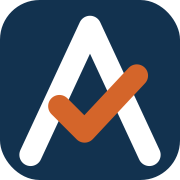
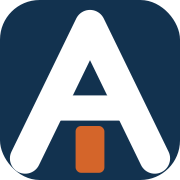
Wordmark: the A-frame house stands in for the A
Claude-Session: https://claude.ai/code/session_019bFuonzXkrbG6Adz1o8heX

Changed region(s): [[0.0556, 0.0556, 0.9444, 0.9722], [0.6944, 0.7222, 0.7222, 0.7778], [0.2778, 0.7222, 0.3056, 0.7778]]

diff --git a/site/public/index.html b/site/public/index.html
@@ -38,7 +38,7 @@
 
 <header class="top">
   <div class="topin">
-    <a href="/" aria-label="Apprifi home"><img class="logo" src="/apprifi-logo.svg" alt="Apprifi" width="168" height="40"></a>
+    <a href="/" aria-label="Apprifi home"><img class="logo" src="/apprifi-logo.svg" alt="Apprifi" width="121" height="40"></a>
     <nav aria-label="Site">
       <a href="#how">How it works</a>
       <a href="#amc">Not an AMC</a>
@@ -302,7 +302,7 @@
 <footer>
   <div class="wrap">
     <div class="cols">
-      <div><img src="/apprifi-logo.svg" alt="Apprifi" width="134" height="32" style="height:32px;width:auto"><p style="margin-top:12px;max-width:40ch;line-height:1.6">The appraisal desk for community lenders, estate attorneys and wealth managers. Built and operated by Cresci Appraisal &amp; Consulting Company, Bloomington-Normal, Illinois.</p></div>
+      <div><img src="/apprifi-logo.svg" alt="Apprifi" width="97" height="32" style="height:32px;width:auto"><p style="margin-top:12px;max-width:40ch;line-height:1.6">The appraisal desk for community lenders, estate attorneys and wealth managers. Built and operated by Cresci Appraisal &amp; Consulting Company, Bloomington-Normal, Illinois.</p></div>
       <div><h4>Product</h4><a href="#how">How it works</a><a href="#amc">Not an AMC</a><a href="#estate">Estate and wealth</a><a href="#pricing">Pricing</a><a href="https://demo.apprifi.com" rel="noopener">Live demo</a></div>
       <div><h4>Access</h4><a href="/sign-in">Sign in</a><a href="#request">Request a walkthrough</a><a href="/security">Security and privacy</a><a href="mailto:orders@apprifi.com">orders@apprifi.com</a></div>
     </div>

diff --git a/public/app.js b/public/app.js
@@ -641,7 +641,7 @@ var CORE = (function(){
     /* the lockup: Apprifi, then the lender as the client (its own logo if it uploaded one, otherwise its name) */
     var wrap=document.querySelector(".topin"), lock=wrap.querySelector(".brandlock");
     if(!lock){ lock=document.createElement("a"); lock.className="brandlock"; lock.href="./"; wrap.insertBefore(lock,wrap.firstChild); }
-    lock.innerHTML='<img class="plogo" src="/apprifi-logo.svg" alt="'+esc(b.productName||"Apprifi")+'" width="168" height="40">'+
+    lock.innerHTML='<img class="plogo" src="/apprifi-logo.svg" alt="'+esc(b.productName||"Apprifi")+'" width="121" height="40">'+
       '<span class="lsep" aria-hidden="true"></span>'+
       (b.logo?'<img class="llogo" src="'+esc(b.logo)+'" alt="'+esc(b.name)+'">':'<span class="lname"><b>'+esc(b.name)+'</b>'+(b.tagline?'<span>'+esc(b.tagline)+'</span>':'')+'</span>');
     var h1=document.querySelector(".mast h1"), tag=document.querySelector(".mast .tag");

diff --git a/src/app.src.js b/src/app.src.js
@@ -97,7 +97,7 @@
     /* the lockup: Apprifi, then the lender as the client (its own logo if it uploaded one, otherwise its name) */
     var wrap=document.querySelector(".topin"), lock=wrap.querySelector(".brandlock");
     if(!lock){ lock=document.createElement("a"); lock.className="brandlock"; lock.href="./"; wrap.insertBefore(lock,wrap.firstChild); }
-    lock.innerHTML='<img class="plogo" src="/apprifi-logo.svg" alt="'+esc(b.productName||"Apprifi")+'" width="168" height="40">'+
+    lock.innerHTML='<img class="plogo" src="/apprifi-logo.svg" alt="'+esc(b.productName||"Apprifi")+'" width="121" height="40">'+
       '<span class="lsep" aria-hidden="true"></span>'+
       (b.logo?'<img class="llogo" src="'+esc(b.logo)+'" alt="'+esc(b.name)+'">':'<span class="lname"><b>'+esc(b.name)+'</b>'+(b.tagline?'<span>'+esc(b.tagline)+'</span>':'')+'</span>');
     var h1=document.querySelector(".mast h1"), tag=document.querySelector(".mast .tag");

diff --git a/site/public/404.html b/site/public/404.html
@@ -10,7 +10,7 @@
 <body>
 <main class="narrow">
   <div class="panel">
-    <a href="/"><img src="/apprifi-logo.svg" alt="Apprifi" width="168" height="40" style="height:40px;width:auto"></a>
+    <a href="/"><img src="/apprifi-logo.svg" alt="Apprifi" width="121" height="40" style="height:40px;width:auto"></a>
     <h1 style="margin-top:18px">That page is not here.</h1>
     <p>If you followed a link from a text or email about your appraisal, the link belongs on your lender's portal, not on apprifi.com. Open the message again and tap the link it contains.</p>
     <p style="margin-top:14px"><a class="btn p" href="/">Go to the home page</a> <a class="btn" href="/sign-in" style="margin-left:8px">Sign in</a></p>

diff --git a/site/public/security.html b/site/public/security.html
@@ -15,7 +15,7 @@
 <body>
 <header class="top">
   <div class="topin">
-    <a href="/"><img class="logo" src="/apprifi-logo.svg" alt="Apprifi" width="168" height="40"></a>
+    <a href="/"><img class="logo" src="/apprifi-logo.svg" alt="Apprifi" width="121" height="40"></a>
     <nav aria-label="Site"><a href="/">Home</a><a href="/sign-in">Sign in</a><a class="btn p s" href="/#request">Request a walkthrough</a></nav>
   </div>
 </header>

diff --git a/site/public/sign-in.html b/site/public/sign-in.html
@@ -15,7 +15,7 @@
 <body>
 <header class="top">
   <div class="topin">
-    <a href="/"><img class="logo" src="/apprifi-logo.svg" alt="Apprifi" width="168" height="40"></a>
+    <a href="/"><img class="logo" src="/apprifi-logo.svg" alt="Apprifi" width="121" height="40"></a>
     <nav aria-label="Site"><a href="/">Home</a><a class="btn p s" href="/#request">Request a walkthrough</a></nav>
   </div>
 </header>

diff --git a/tools/logogen.py b/tools/logogen.py
@@ -7,7 +7,7 @@ Parametric, vector-first. Every mark is drawn from a few numbers on a 100x100 gr
     python3 tools/logogen.py sheet            -> tools/out/sheet.png     every concept, for choosing
     python3 tools/logogen.py build <concept>  -> public/apprifi-*.svg, favicons, og image, site copies
 
-Concepts: checkA, roofbar, houserail, tile, ligature, pin
+Concepts: aframe (the house stands in for the A of the wordmark), checkA, roofbar, houserail, tile, ligature, pin
 Palette: navy #12324f, orange #d4652a (override with --navy/--orange).
 """
 import sys, os, math, argparse, io
@@ -68,7 +68,14 @@ def pin(navy, orange):
     door = f'<rect x="45" y="48" width="10" height="16" rx="2" fill="{orange}"/>'
     return body + roof + door
 
-CONCEPTS = {"checkA": checkA, "roofbar": roofbar, "houserail": houserail, "tile": tile, "ligature": ligature, "pin": pin}
+def aframe(navy, orange):
+    """An A-frame house: steep rafters to the ground, a loft beam as the crossbar, an orange door."""
+    rafters = stroke("M14 88 L50 14 L86 88", navy, 17)
+    beam = stroke("M30 60 L70 60", navy, 14, cap="butt")
+    door = f'<rect x="42" y="70" width="16" height="26" rx="3" fill="{orange}"/>'
+    return rafters + beam + door
+
+CONCEPTS = {"aframe": aframe, "checkA": checkA, "roofbar": roofbar, "houserail": houserail, "tile": tile, "ligature": ligature, "pin": pin}
 
 def mark_svg(concept, navy, orange, size=100, bg=None, pad=0):
     inner = CONCEPTS[concept](navy, orange)
@@ -77,6 +84,7 @@ def mark_svg(concept, navy, orange, size=100, bg=None, pad=0):
             f'{bgrect}{inner}</svg>')
 
 # ---------- wordmark as outlines ----------
+CAP = 712 / 1000  # PT Serif Bold cap height, em units
 def wordmark_path(text="Apprifi", size=100, tracking=-0.5):
     """Returns (path_d, advance_width) for text set at `size` px, baseline at y=0, using PT Serif Bold outlines."""
     font = TTFont(FONT)
@@ -90,6 +98,24 @@ def wordmark_path(text="Apprifi", size=100, tracking=-0.5):
         parts.append(pen.getCommands())
         x += gs[gname].width * scale + tracking
     return " ".join(parts), x - tracking
+
+def lockup_house_svg(navy, orange, text_color=None, size=34, h=40):
+    """The A-frame house stands in for the capital A of the wordmark: house, then "pprifi" in outlines."""
+    text_color = text_color or navy
+    d, adv = wordmark_path("pprifi", size=size, tracking=-0.4)
+    cap = size * CAP
+    # the house's 100-grid spans y 6..96 (stroke included); scale so that span equals the cap height plus a hair
+    s = (cap * 1.1) / 92
+    baseline = (h + cap) / 2
+    house_w = 100 * s
+    top = baseline - 96.5 * s  # the rafters' feet (grid y 96.5, stroke included) stand on the baseline
+    gap = size * 0.04
+    w = house_w + gap + adv + 1
+    inner = aframe(navy, orange)
+    return (f'<svg xmlns="http://www.w3.org/2000/svg" width="{w:.0f}" height="{h}" viewBox="0 0 {w:.1f} {h}" role="img" aria-label="Apprifi">'
+            f'<title>Apprifi</title>'
+            f'<g transform="translate(0 {top:.2f}) scale({s:.4f})">{inner}</g>'
+            f'<path transform="translate({house_w+gap:.2f} {baseline:.2f})" d="{d}" fill="{text_color}"/></svg>')
 
 def lockup_svg(concept, navy, orange, text_color=None, mark=40, gap=12, size=None):
     """Horizontal lockup: mark at `mark` px tall, wordmark to its right, baseline aligned."""
@@ -131,9 +157,10 @@ def sheet(navy, orange):
 
 def build(concept, navy, orange):
     pub = os.path.join(ROOT, "public"); site = os.path.join(ROOT, "site", "public")
+    house = concept == "aframe"
     files = {
-        "apprifi-logo.svg": lockup_svg(concept, navy, orange, mark=40),
-        "apprifi-logo-white.svg": lockup_svg(concept, "#ffffff", orange, text_color="#ffffff", mark=40),
+        "apprifi-logo.svg": lockup_house_svg(navy, orange) if house else lockup_svg(concept, navy, orange, mark=40),
+        "apprifi-logo-white.svg": lockup_house_svg("#ffffff", orange, text_color="#ffffff") if house else lockup_svg(concept, "#ffffff", orange, text_color="#ffffff", mark=40),
         "apprifi-mark.svg": mark_svg(concept, navy, orange, size=40),
         "apprifi-mark-tile.svg": mark_svg(concept, "#ffffff", orange, size=40, bg=navy),
     }
